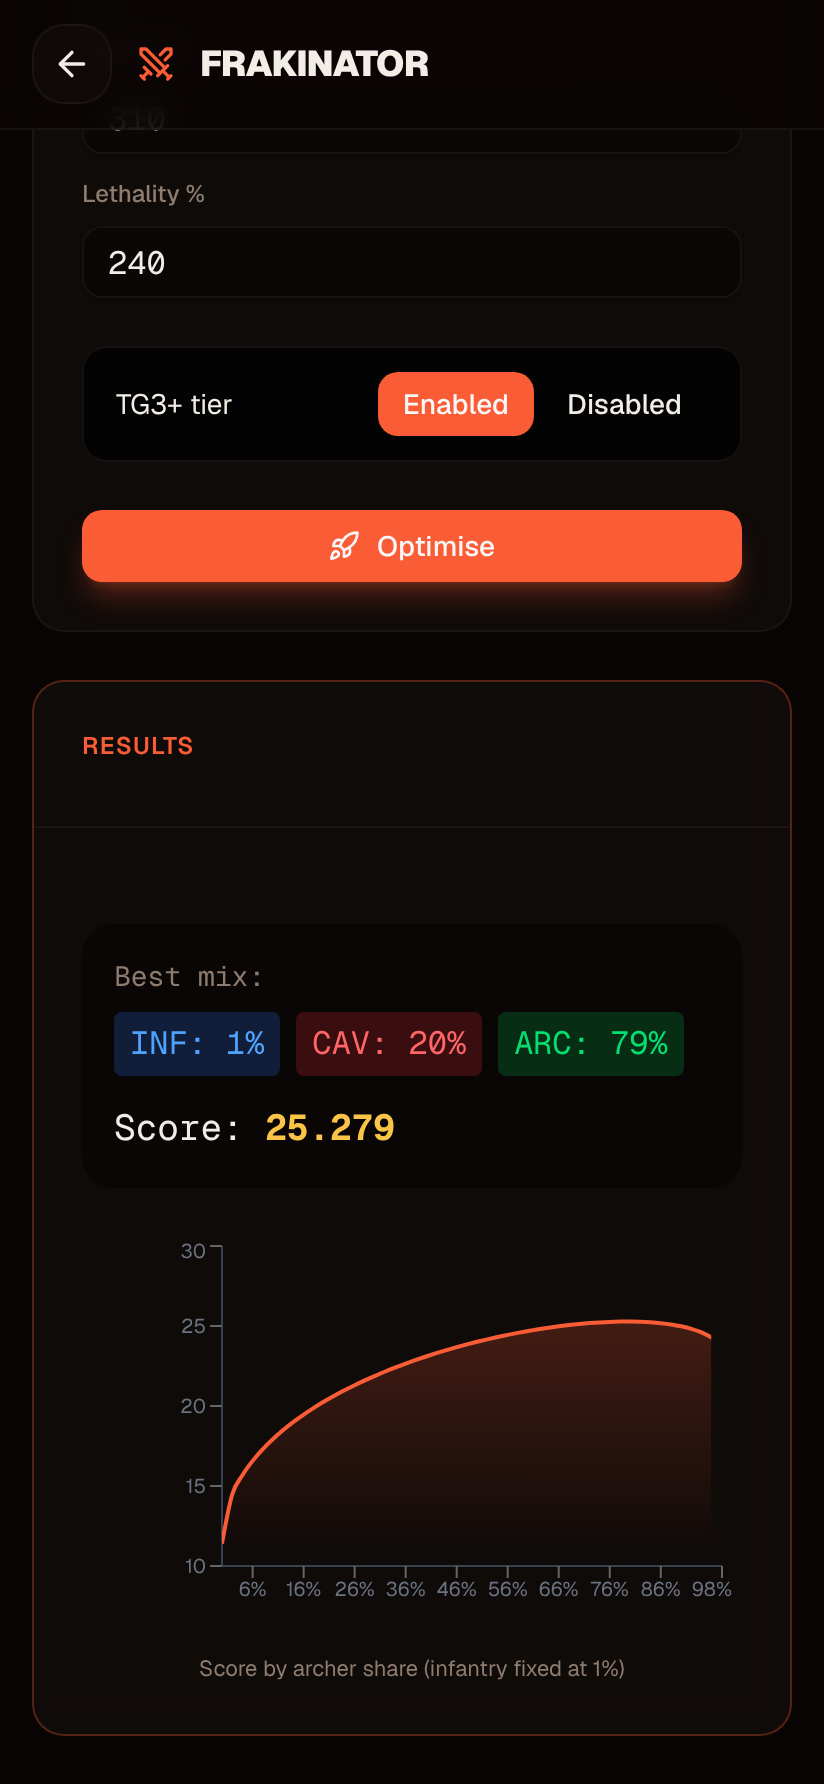
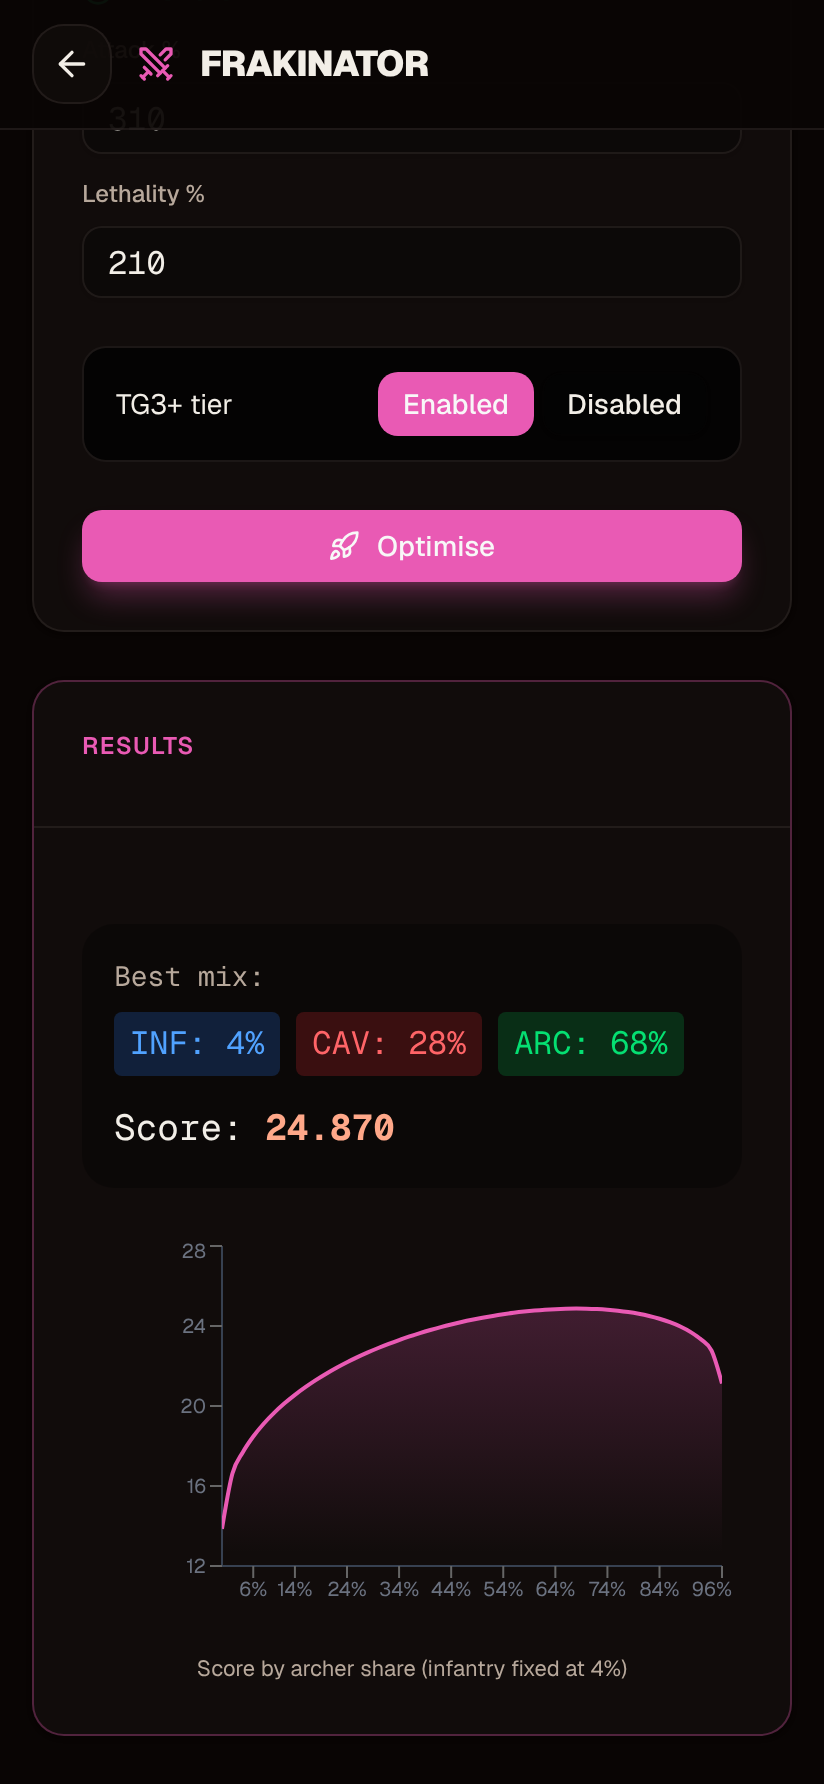
README: Text Art and recent changes, new screenshots in the pink theme
Screenshots are regenerated from the current build (home with the Text
Art tile and new footer, Rally Timer, Frakinator, Auto Clicker, Text Art
preview, settings). The Rally Timer and Auto Clicker sections now
describe the beta.4 and beta.5 behaviour.

Claude-Session: https://claude.ai/code/session_01NjK3Gz6vtnM8goYfLz7dzK

diff --git a/README.md b/README.md
@@ -1,15 +1,16 @@
 # KingShot Assistant
 
-A pocket toolbox for Kingshot players: troop calculators, a rally timer that lands every march on the same second, and an auto clicker for the repetitive parts of the game.
+A pocket toolbox for Kingshot players: troop calculators, a rally timer that lands every march on the same second, an auto clicker for the repetitive parts of the game, and a place to keep your chat art and message templates.
 
 It runs as an **Android app** (works offline) and as a **web app**, from one codebase.
 
 <p align="center">
-  <img src="docs/screenshots/home.png" width="19%" alt="Home screen with one tile per module" />
-  <img src="docs/screenshots/rally.png" width="19%" alt="Rally Timer, Quick Sync tab" />
-  <img src="docs/screenshots/frakinator.png" width="19%" alt="Frakinator result with its chart" />
-  <img src="docs/screenshots/clicker.png" width="19%" alt="Auto Clicker with a saved macro" />
-  <img src="docs/screenshots/settings.png" width="19%" alt="Settings: language and accent colour" />
+  <img src="docs/screenshots/home.png" width="15.5%" alt="Home screen with one tile per module" />
+  <img src="docs/screenshots/rally.png" width="15.5%" alt="Rally Timer, Quick Sync tab" />
+  <img src="docs/screenshots/frakinator.png" width="15.5%" alt="Frakinator result with its chart" />
+  <img src="docs/screenshots/clicker.png" width="15.5%" alt="Auto Clicker with its saved macros" />
+  <img src="docs/screenshots/textart.png" width="15.5%" alt="Text Art: in-game preview of a saved template" />
+  <img src="docs/screenshots/settings.png" width="15.5%" alt="Settings: language and accent colour" />
 </p>
 
 ## Why it exists
@@ -29,6 +30,7 @@ Everything is built around how the game is actually played: you type the numbers
 | **Gather Time** | Converts the gathering time shown in game into the time you'd get with more speed bonus, and when it finishes. |
 | **Rally Timer** *(beta)* | Works out when each rally leader must launch so that everyone lands together. |
 | **Auto Clicker** *(test, Android)* | Taps the screen for you: one point in a loop, or a saved sequence of points. |
+| **Text Art** *(new, in test)* | Keeps your emoji art and message templates in folders, copies them in one tap exactly as saved, and previews how the game's chat will lay them out. |
 
 ### Rally Timer
 
@@ -48,7 +50,9 @@ Launch your rally at:
 12:29:15 Alex
 ```
 
-On Android, a floating bubble keeps your own countdown on top of the game, with a beep and a vibration at T−3, T−2, T−1 and GO.
+On Android, **Quick Sync** has a floating bubble that keeps your own countdown on top of the game, with a beep and a vibration at T−3, T−2, T−1 and GO.
+
+**Exact UTC** has no bubble. It shows a short guide with an annotated screenshot of the game instead (it can be hidden): prepare the rally, stay on the rally screen, read the game's UTC clock and press Deploy at the launch time. It also reminds every leader to pick the same rally time in game (usually 5 minutes) and to check it before each Deploy.
 
 ### Auto Clicker
 
@@ -57,7 +61,9 @@ A floating panel with numbered markers you drag onto the buttons you want presse
 - **Single target** — one point, tapped at a fixed interval.
 - **Multiple targets** — a sequence (tap, long press or swipe), each step with its own delay and repeat count, saved as a named macro.
 - **Simultaneous** — every target pressed at the same moment, like several fingers.
-- Everything is adjustable from the floating panel itself (⚙), which also folds down to a small floating button and shows the tap count and elapsed time while running.
+- **Per-target settings** — tap a marker on the panel to open a small window with that target's action, durations, wait, repeat count and marker size.
+- **The panel** keeps the controls you need while playing: play, ⚙ for the macro's run settings (mode, interval, start delay, when to stop), 👁 to hide every marker in one tap, − to remove the last target. It folds down to a small floating button and shows the tap count and elapsed time while running. It follows the app's accent colour.
+- **In the app**, four tabs: Macros, Edit, Look and Share. Durations can be entered in ms, seconds or minutes.
 - Macros can be copied as text and imported on another phone.
 - Stops after a number of cycles, after a duration, or when you press stop. It also stops by itself when the screen turns off or the phone rotates.
 - Ready-made macros: *batch healing* (one target every 20 ms) and *Terror* (a Terror rally every 2 minutes).
@@ -65,9 +71,21 @@ A floating panel with numbered markers you drag onto the buttons you want presse
 > [!WARNING]
 > Most games forbid automation in their terms of service. The auto clicker is a general-purpose tool; using it in a game is at your own risk and can get an account sanctioned.
 
+### Text Art
+
+For the emoji drawings and ready-made messages people paste into alliance chat. It is new and still in test.
+
+- **Folders and search.** Sort templates into folders, search by name or content, order by recent or name.
+- **Exact copy.** *Copy* puts the stored text on the clipboard as it was saved: no trimming, no normalising, so spaces (including ideographic ones used for indentation) and line breaks survive. Pasting from the clipboard into a template works the same way.
+- **In-game preview.** The preview lays the text out the way the game's chat bubble does, calibrated on screenshots from the game: 16 emoji per line, breaks at normal spaces, and a font close to the game's. The 👁 button on each template in the list opens the whole preview without entering the editor.
+- **Known limits.** Emoji are drawn by your phone, so they can look a little different from the game's. On long lines of plain text a break can land one character away from where the game puts it. The bubble width can be changed if you want to test other sizes.
+- **Paste checks.** The editor counts characters and spaces, and warns when a character was lost on the way in (a damaged paste).
+
+Everything stays on the device.
+
 ### Languages and appearance
 
-English (default), French, German, Spanish, Portuguese (BR), Italian, Turkish and Russian. The accent colour is yours to pick. Both are saved on the device.
+English (default), French, German, Spanish, Portuguese (BR), Italian, Turkish and Russian. The accent colour is yours to pick, from eight presets or a custom hue, and it applies to the whole app including the floating panels. Both are saved on the device. The screenshots above use the pink preset.
 
 ## Install
 
@@ -85,6 +103,7 @@ lib/                     Game logic, free of UI: unit-tested
   utc-clock.ts             clock synchronisation (NTP-style sampling)
   frakinator.ts, ratio.ts, modifiers.ts
   auto-clicker.ts          macro model and validation
+  text-art.ts              templates, folders and the chat-bubble line layout
   locales/                 one file per language, type-checked against a shared shape
 android/                 Capacitor project
   app/src/main/java/…      native code (Java)
@@ -125,7 +144,7 @@ Details, permissions and how to report a problem: [SECURITY.md](SECURITY.md).
 
 ## Status
 
-The calculators are stable. Rally Timer is in beta and Auto Clicker is in test: both rely on Android features that behave differently from one phone brand to another, so feedback from real devices is what moves them forward. Known gaps are tracked in the [release notes](docs/release-notes).
+The calculators are stable. Rally Timer is in beta, Auto Clicker and Text Art are in test: both rely on Android features that behave differently from one phone brand to another, so feedback from real devices is what moves them forward. Known gaps are tracked in the [release notes](docs/release-notes).
 
 ## Disclaimer
 
@@ -135,4 +154,4 @@ This is a fan-made tool. It is not affiliated with, endorsed by, or connected to
 
 ### En français
 
-KingShot Assistant regroupe des outils pour les joueurs de Kingshot : calculateurs de troupes et de ressources, un minuteur de rallies qui fait atterrir toutes les marches à la même seconde, et un auto clicker pour les actions répétitives. L'application existe en version Android (utilisable hors ligne) et en version web, à partir du même code. Elle est disponible en huit langues, dont le français. L'APK se télécharge depuis la page [Releases](../../releases).
+KingShot Assistant regroupe des outils pour les joueurs de Kingshot : calculateurs de troupes et de ressources, un minuteur de rallies qui fait atterrir toutes les marches à la même seconde, et un auto clicker pour les actions répétitives, et un module Text Art pour ranger et copier ses dessins en emoji et ses modèles de message. L'application existe en version Android (utilisable hors ligne) et en version web, à partir du même code. Elle est disponible en huit langues, dont le français. L'APK se télécharge depuis la page [Releases](../../releases).
